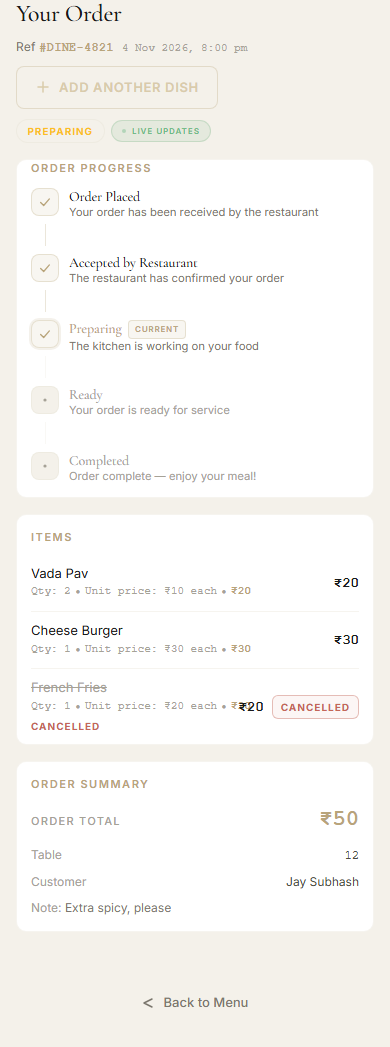
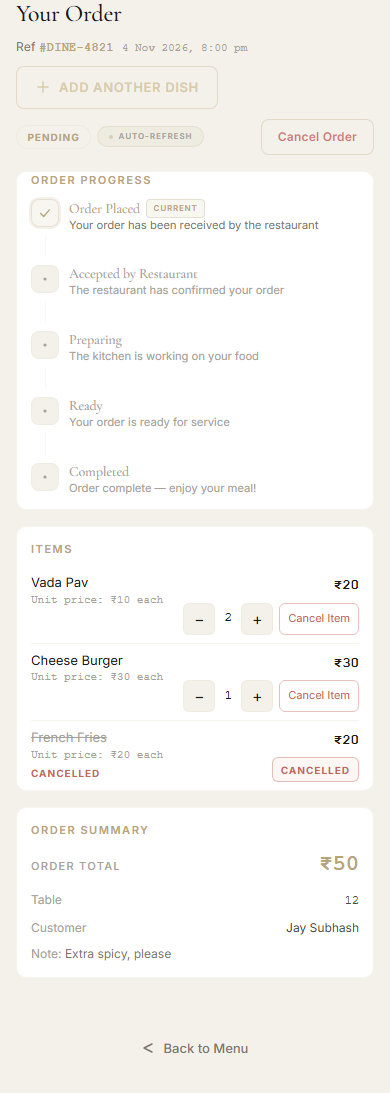
Updated something

diff --git a/components/order/OrderTracking.tsx b/components/order/OrderTracking.tsx
@@ -625,73 +625,65 @@ const placedAt   = order?.created_at ?? null;
                     const lineTotal = unitPrice * item.quantity;
 const last = i === order.items.length - 1;
                      return (
-                       <div key={item.id} style={{ padding: '0.625rem 0', borderBottom: last ? 'none' : '1px solid var(--border-subtle)' }}>
-                         <div style={{ display: 'flex', alignItems: 'center', gap: 8, flexWrap: 'nowrap' }}>
-                           <div style={{ flex: 1, minWidth: 0, display: 'flex', flexDirection: 'column', gap: 2 }}>
+                       <div key={item.id} style={{ padding: '0.5rem 0', borderBottom: last ? 'none' : '1px solid var(--border-subtle)' }}>
+                         <div style={{ display: 'grid', gridTemplateColumns: 'minmax(0,1fr) auto', gap: '0.5rem', alignItems: 'start' }}>
+                           <div style={{ minWidth: 0, display: 'flex', flexDirection: 'column', gap: 2 }}>
                              <div style={{ display: 'flex', alignItems: 'baseline', gap: 6, flexWrap: 'nowrap', minWidth: 0 }}>
                                <span style={{ fontSize: '0.8125rem', color: cancelled ? 'var(--text-dimmed)' : 'var(--text-primary)', lineHeight: 1.3, textDecoration: cancelled ? 'line-through' : 'none', whiteSpace: 'nowrap', overflow: 'hidden', textOverflow: 'ellipsis', maxWidth: '100%' }}>
                                  {item.name || 'Item'}
                                </span>
                              </div>
-                             <div style={{ display: 'flex', alignItems: 'center', gap: 4, flexWrap: 'nowrap', whiteSpace: 'nowrap' }}>
-                               <span style={{ fontSize: '0.6875rem', color: 'var(--text-dimmed)', fontFamily: NUMBER_FONT, fontVariantNumeric: 'tabular-nums', whiteSpace: 'nowrap' }}>
-                                 Qty: {item.quantity}
-                               </span>
-                               <span style={{ color: 'var(--text-dimmed)', fontSize: '0.6875rem' }}>•</span>
-                               <span style={{ fontSize: '0.6875rem', color: 'var(--text-dimmed)', fontFamily: NUMBER_FONT, fontVariantNumeric: 'tabular-nums', whiteSpace: 'nowrap' }}>
-                                 Unit price: {formatINR(unitPrice)} each
-                               </span>
-                               <span style={{ color: 'var(--text-dimmed)', fontSize: '0.6875rem' }}>•</span>
-                               <span style={{ fontSize: '0.6875rem', color: 'var(--gold)', fontFamily: NUMBER_FONT, fontVariantNumeric: 'tabular-nums', fontWeight: 600, whiteSpace: 'nowrap' }}>
-                                 {formatINR(lineTotal)}
-                               </span>
-                             </div>
+                             <span style={{ fontSize: '0.6875rem', color: 'var(--text-dimmed)', fontFamily: NUMBER_FONT, fontVariantNumeric: 'tabular-nums', whiteSpace: 'nowrap', overflow: 'hidden', textOverflow: 'ellipsis', maxWidth: '100%', lineHeight: 1.4 }}>
+                               Unit price: {formatINR(unitPrice)} each
+                             </span>
                              {cancelled && (
                                <span style={{ fontSize: '0.625rem', color: '#C46658', fontWeight: 700, letterSpacing: '0.1em', textTransform: 'uppercase', whiteSpace: 'nowrap' }}>
                                  CANCELLED
                                </span>
                              )}
                            </div>
-                           <div style={{ display: 'flex', alignItems: 'center', gap: 8, flexShrink: 0, whiteSpace: 'nowrap' }}>
-                             <span style={{ fontSize: '0.875rem', color: 'var(--text-primary)', fontWeight: 600, fontFamily: NUMBER_FONT, fontVariantNumeric: 'tabular-nums', whiteSpace: 'nowrap', minWidth: 48, textAlign: 'right' }}>
+                           <div style={{ display: 'flex', flexDirection: 'column', alignItems: 'flex-end', gap: 6, flexShrink: 0, whiteSpace: 'nowrap' }}>
+                             <span style={{ fontSize: '0.875rem', color: 'var(--text-primary)', fontWeight: 600, fontFamily: NUMBER_FONT, fontVariantNumeric: 'tabular-nums', whiteSpace: 'nowrap', textAlign: 'right' }}>
                                {formatINR(lineTotal)}
                              </span>
-                             {canEditQty ? (
-                               <div style={{ display: 'flex', alignItems: 'center', gap: 4 }}>
+                             <div style={{ display: 'flex', alignItems: 'center', gap: 6, flexShrink: 0 }}>
+                               {canEditQty ? (
+                                 <div style={{ display: 'flex', alignItems: 'center', gap: 4 }}>
+                                   <button
+                                     type="button"
+                                     onClick={() => handleUpdateItemQuantity(item.id, Math.max(1, (item.quantity || 1) - 1))}
+                                     disabled={itemQtyUpdating === item.id}
+                                     style={{ width: 32, height: 32, borderRadius: 6, border: '1px solid var(--border-warm)', background: 'var(--bg-surface-2)', color: 'var(--text-primary)', cursor: itemQtyUpdating === item.id ? 'not-allowed' : 'pointer', fontSize: '1rem', lineHeight: 1, padding: 0, display: 'flex', alignItems: 'center', justifyContent: 'center', flexShrink: 0 }}
+                                   >
+                                     −
+                                   </button>
+                                   <span style={{ fontSize: '0.8125rem', minWidth: 18, textAlign: 'center', fontFamily: NUMBER_FONT, fontVariantNumeric: 'tabular-nums' }}>{item.quantity}</span>
+                                   <button
+                                     type="button"
+                                     onClick={() => handleUpdateItemQuantity(item.id, (item.quantity || 1) + 1)}
+                                     disabled={itemQtyUpdating === item.id}
+                                     style={{ width: 32, height: 32, borderRadius: 6, border: '1px solid var(--border-warm)', background: 'var(--bg-surface-2)', color: 'var(--text-primary)', cursor: itemQtyUpdating === item.id ? 'not-allowed' : 'pointer', fontSize: '1rem', lineHeight: 1, padding: 0, display: 'flex', alignItems: 'center', justifyContent: 'center', flexShrink: 0 }}
+                                   >
+                                     +
+                                   </button>
+                                 </div>
+                               ) : null}
+                               {canCancel && (
                                  <button
                                    type="button"
-                                   onClick={() => handleUpdateItemQuantity(item.id, Math.max(1, (item.quantity || 1) - 1))}
-                                   disabled={itemQtyUpdating === item.id}
-                                   style={{ width: 32, height: 32, borderRadius: 6, border: '1px solid var(--border-warm)', background: 'var(--bg-surface-2)', color: 'var(--text-primary)', cursor: itemQtyUpdating === item.id ? 'not-allowed' : 'pointer', fontSize: '1rem', lineHeight: 1, padding: 0, display: 'flex', alignItems: 'center', justifyContent: 'center', flexShrink: 0 }}
+                                   onClick={() => setShowItemCancelDialog(item.id)}
+                                   disabled={itemCancelling === item.id}
+                                   style={{ fontSize: '0.6875rem', color: '#C46658', background: 'none', border: '1px solid rgba(196,102,88,0.4)', borderRadius: 6, padding: '0.2rem 0.5rem', cursor: 'pointer', whiteSpace: 'nowrap', minHeight: 32, display: 'flex', alignItems: 'center', justifyContent: 'center', flexShrink: 0 }}
                                  >
-                                   −
+                                   {itemCancelling === item.id ? '…' : 'Cancel Item'}
                                  </button>
-                                 <span style={{ fontSize: '0.8125rem', minWidth: 18, textAlign: 'center', fontFamily: NUMBER_FONT, fontVariantNumeric: 'tabular-nums' }}>{item.quantity}</span>
-                                 <button
-                                   type="button"
-                                   onClick={() => handleUpdateItemQuantity(item.id, (item.quantity || 1) + 1)}
-                                   disabled={itemQtyUpdating === item.id}
-                                   style={{ width: 32, height: 32, borderRadius: 6, border: '1px solid var(--border-warm)', background: 'var(--bg-surface-2)', color: 'var(--text-primary)', cursor: itemQtyUpdating === item.id ? 'not-allowed' : 'pointer', fontSize: '1rem', lineHeight: 1, padding: 0, display: 'flex', alignItems: 'center', justifyContent: 'center', flexShrink: 0 }}
-                                 >
-                                   +
-                                 </button>
-                               </div>
-                             ) : null}
-                             {canCancel && (
-                               <button
-                                 type="button"
-                                 onClick={() => setShowItemCancelDialog(item.id)}
-                                 disabled={itemCancelling === item.id}
-                                 style={{ fontSize: '0.6875rem', color: '#C46658', background: 'none', border: '1px solid rgba(196,102,88,0.4)', borderRadius: 6, padding: '0.2rem 0.5rem', cursor: 'pointer', whiteSpace: 'nowrap', minHeight: 32, display: 'flex', alignItems: 'center', justifyContent: 'center', flexShrink: 0 }}
-                               >
-                                 {itemCancelling === item.id ? '…' : 'Cancel Item'}
-                               </button>
-                             )}
-                             {cancelled && (
-                               <span style={{ fontSize: '0.625rem', color: '#C46658', fontWeight: 700, letterSpacing: '0.1em', textTransform: 'uppercase', padding: '0.2rem 0.5rem', borderRadius: 6, border: '1px solid rgba(196,102,88,0.4)', background: 'rgba(196,102,88,0.06)', whiteSpace: 'nowrap', flexShrink: 0 }}>
-                                 CANCELLED
-                               </span>
-                             )}
+                               )}
+                               {cancelled && (
+                                 <span style={{ fontSize: '0.625rem', color: '#C46658', fontWeight: 700, letterSpacing: '0.1em', textTransform: 'uppercase', padding: '0.2rem 0.5rem', borderRadius: 6, border: '1px solid rgba(196,102,88,0.4)', background: 'rgba(196,102,88,0.06)', whiteSpace: 'nowrap', flexShrink: 0 }}>
+                                   CANCELLED
+                                 </span>
+                               )}
+                             </div>
                            </div>
                          </div>
                         {showItemCancelDialog === item.id && (

diff --git a/tests/order-tracking.spec.ts b/tests/order-tracking.spec.ts
@@ -8,7 +8,7 @@ const MOCK_ORDER = {
   order: {
     id: '11111111-1111-1111-1111-111111111111',
     order_number: 'DINE-4821',
-    status: 'preparing',
+    status: 'pending',
     payment_status: 'pending',
     payment_method: 'pay_at_table',
     table_number: '12',
@@ -73,12 +73,28 @@ await page.goto('http://localhost:3000/order/DINE-4821', { waitUntil: 'networkid
       expect(progressText).not.toMatch(/Last updated/);
 
       // Each item card must show the required fields.
-      const vadaPav = await page.locator('text=Vada Pav').first().locator('..').first().locator('..').first();
-      const vadaPavText = await vadaPav.innerText();
-      expect(vadaPavText).toContain('Vada Pav');
-      expect(vadaPavText).toMatch(/Qty: 2/);
-      expect(vadaPavText).toMatch(/Unit price: ₹10 each/);
-      expect(vadaPavText).toMatch(/₹20/);
+      const pageText = await page.locator('body').innerText();
+      expect(pageText).toContain('Vada Pav');
+      expect(pageText).toMatch(/Unit price: ₹10 each/);
+      expect(pageText).toMatch(/₹20/);
+      expect(pageText).toMatch(/₹30/);
+      expect(pageText).toContain('Cancel Item');
+
+      // The unit-price line must be its own element with no overlap.
+      const unitPriceEl = await page.locator('text=Unit price: ₹10 each').first();
+      const unitBox = await unitPriceEl.boundingBox();
+      expect(unitBox).not.toBeNull();
+      expect(unitBox!.height).toBeLessThan(30);
+
+      // The subtotal must not overlap the unit-price text.
+      const subtotalEl = await page.locator('text=₹20').first();
+      const subtotalBox = await subtotalEl.boundingBox();
+      expect(subtotalBox).not.toBeNull();
+      const overlapX = unitBox!.x < subtotalBox!.x + subtotalBox!.width &&
+        unitBox!.x + unitBox!.width > subtotalBox!.x;
+      const overlapY = unitBox!.y < subtotalBox!.y + subtotalBox!.height &&
+        unitBox!.y + unitBox!.height > subtotalBox!.y;
+      expect(overlapX && overlapY).toBe(false);
 
       // The summary must show a single prominent total, no "Original Total".
       const summary = await page.locator('text=Order Summary').first().locator('..').first().locator('..').first();
